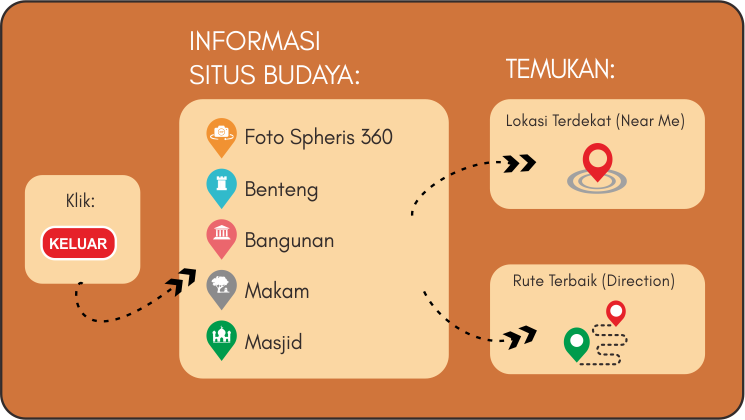
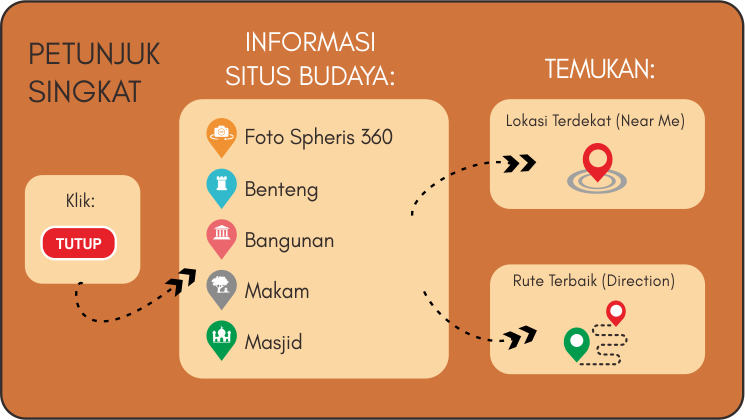
first commit

diff --git a/guide.html b/guide.html
@@ -21,7 +21,7 @@
 	<link href="homepage/css/responsive.css" rel="stylesheet">
 	<style>
 		img { 
-			width: 80%; 
+			width: 100%; 
 			}
 	</style>
 	
@@ -34,7 +34,7 @@
 			<div class="display-table-cell">
 			
 				<img src="images/guide.png">
-				<a class="notify-btn" href="https://www.google.com"><b>KELUAR</b></a>
+				<a class="notify-btn" href="https://situsbudayakotagede.github.io/gis/"><b>TUTUP</b></a>
 				<a class="guide-btn" href="index.html"><b>DEPAN</b></a>
 				
 				

diff --git a/homepage/css/styles.css b/homepage/css/styles.css
@@ -92,7 +92,7 @@ b.light-color{ color: #444; }
 
 .main-area .desc{ margin: 20px auto; max-width: 500px; }
 	
-.main-area .notify-btn{ position: fixed; bottom: 0px; left:0; padding: 13px 35px; border-radius: 50px; border: 2px solid #FFFFFF;
+.main-area .notify-btn{ position: fixed; bottom: 50px; left:650px; padding: 13px 35px; border-radius: 50px; border: 2px solid #FFFFFF;
 	color: #fff; background: #FF0000; }
 
 .main-area .notify-btn:hover{ background: none; }

diff --git a/index.html b/index.html
@@ -37,7 +37,7 @@
 				<h5 class="bot"><b>-Ir. Soekarno, 1966</b></h5>
 				<p class="empty"> --- </p>
 				<img src="images/bg.png">
-				<a class="notify-btn" href="https://www.google.com"><b>KELUAR</b></a>
+				<a class="notify-btn" href="https://situsbudayakotagede.github.io/gis/"><b>TUTUP</b></a>
 				<a class="guide-btn" href="guide.html"><b>PETUNJUK</b></a>
 				
 				
